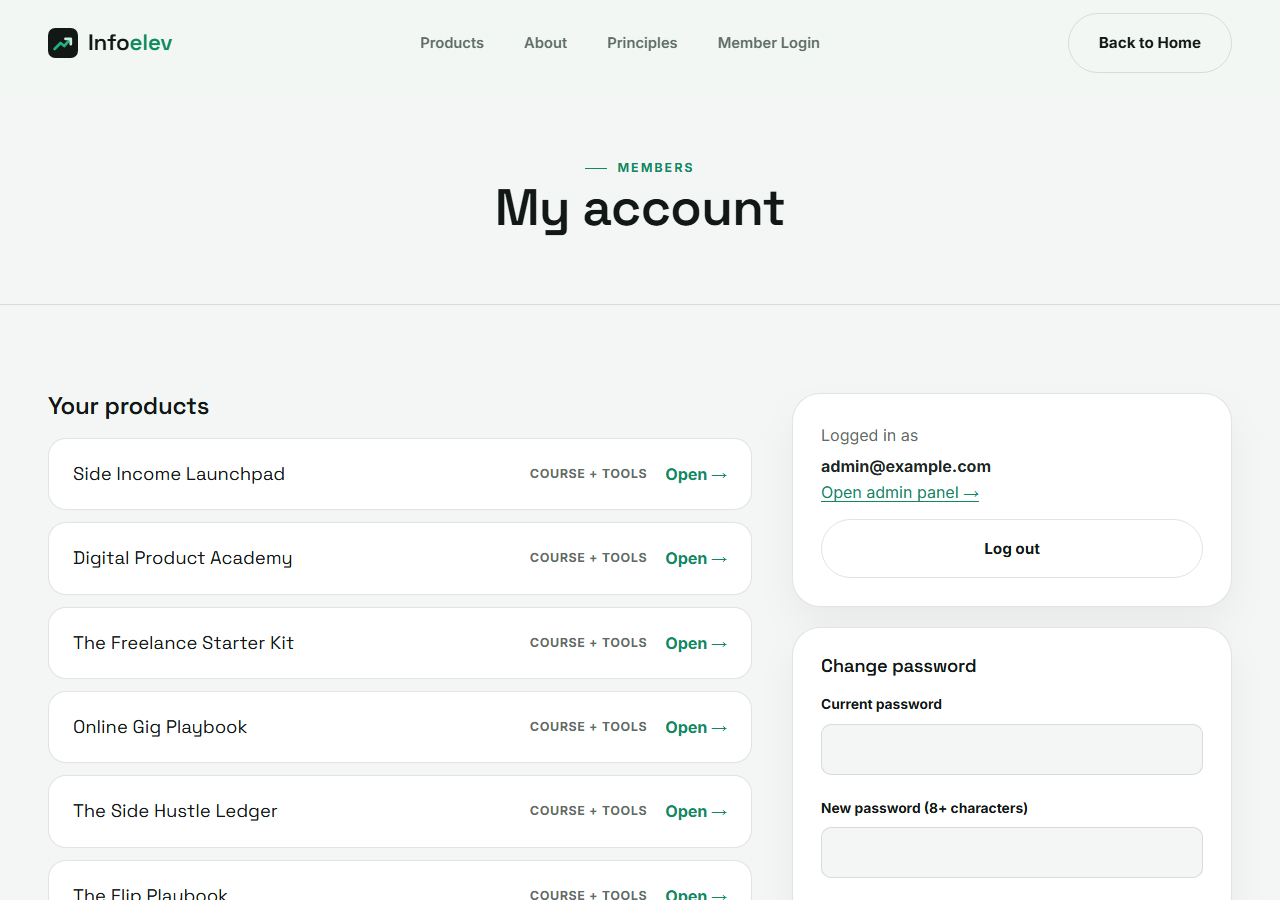
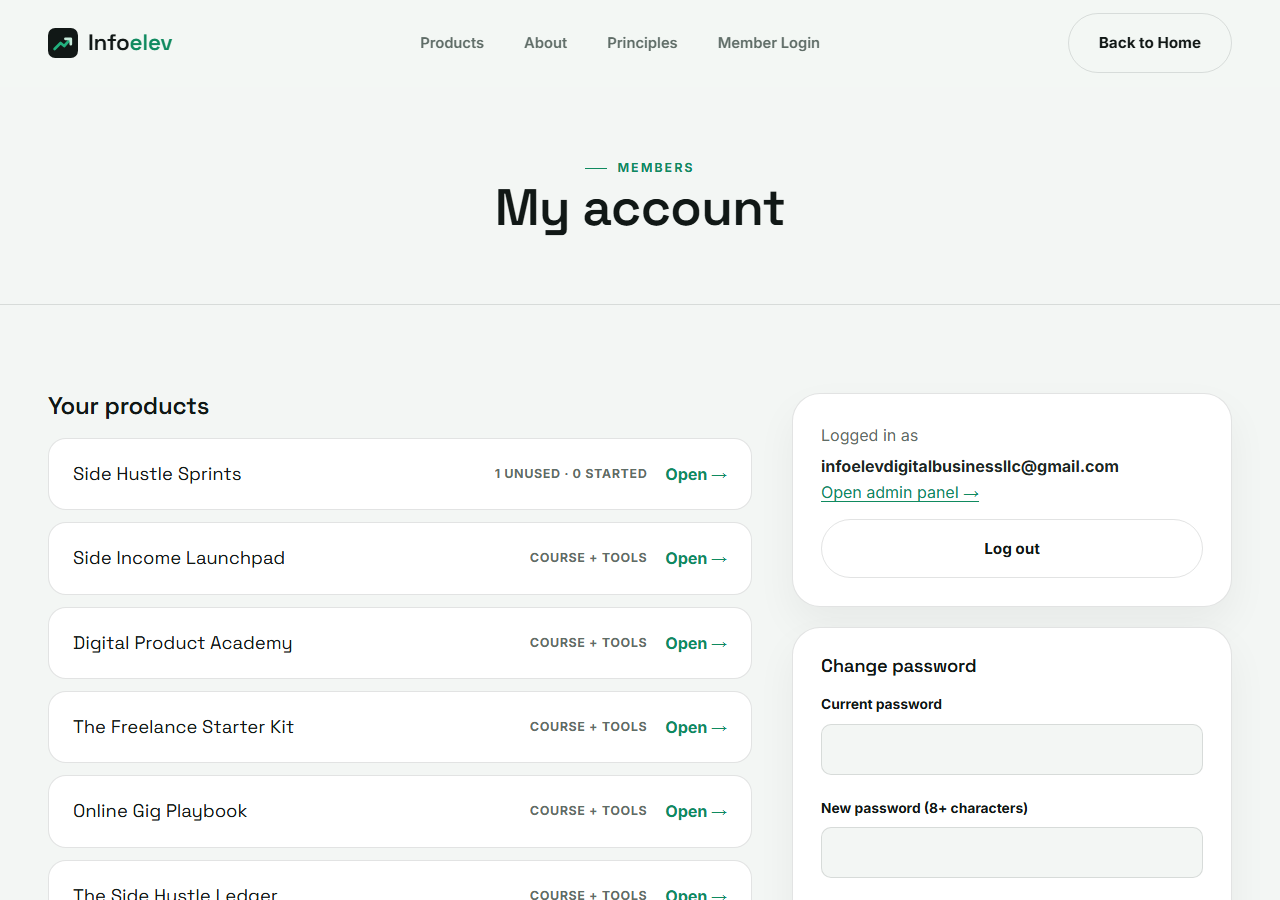
Stripe dossier: screenshots from the live site, notes updated

diff --git a/docs/stripe/dossier.html b/docs/stripe/dossier.html
@@ -187,7 +187,7 @@
   </ul>
   <div class="grid2">
     <figure class="shot-sm"><img src="shots/sprints.png" alt="Sprints sales page"><figcaption>Sprints sales page — /sprints.html</figcaption></figure>
-    <figure class="shot-sm"><img src="shots/sprints-app.png" alt="Sprint in progress"><figcaption>Member app: a sprint in progress with daily check-ins</figcaption></figure>
+    <figure class="shot-sm"><img src="shots/sprints-app.png" alt="Sprint in progress"><figcaption>Member app: a sprint in progress with daily check-ins (sample entry on our own account)</figcaption></figure>
   </div>
   <h3>Monthly memberships</h3>
   <p>Infoelev Tools ($9/month) and Infoelev All Access ($19/month) renew monthly until canceled. This is stated on the pricing cards, in our Terms, and on the Stripe Checkout page. There are no free trials and no automatic upgrades.</p>
@@ -261,7 +261,7 @@
   <h2><span class="n">07</span>Internal admin panel</h2>
   <p>Our admin panel lists every member account with what it can access and how that access was granted (Stripe purchase, or manual, such as the review account created for your team), each purchase's status (active, refunded, canceled), the account creation date, last login, and number of logins. It is restricted to Infoelev administrators.</p>
   <figure><img src="shots/admin.png" alt="Admin panel"><figcaption>Admin panel — /admin.html</figcaption></figure>
-  <div class="callout"><strong>Note on the screenshots.</strong> Because we have not processed customer payments yet, the member-area and admin screenshots show internal test accounts (example.com addresses), labeled as test accounts in the panel. They show exactly the screens customers and our team use.</div>
+  <div class="callout"><strong>Note on the screenshots.</strong> Because we have not processed customer payments yet, the member-area and admin screenshots were taken on the live site with our own internal accounts: the owner account and the review account created for your team, both marked as manual access in the panel. They show exactly the screens customers and our team use.</div>
 </section>
 
 <section id="s8">
